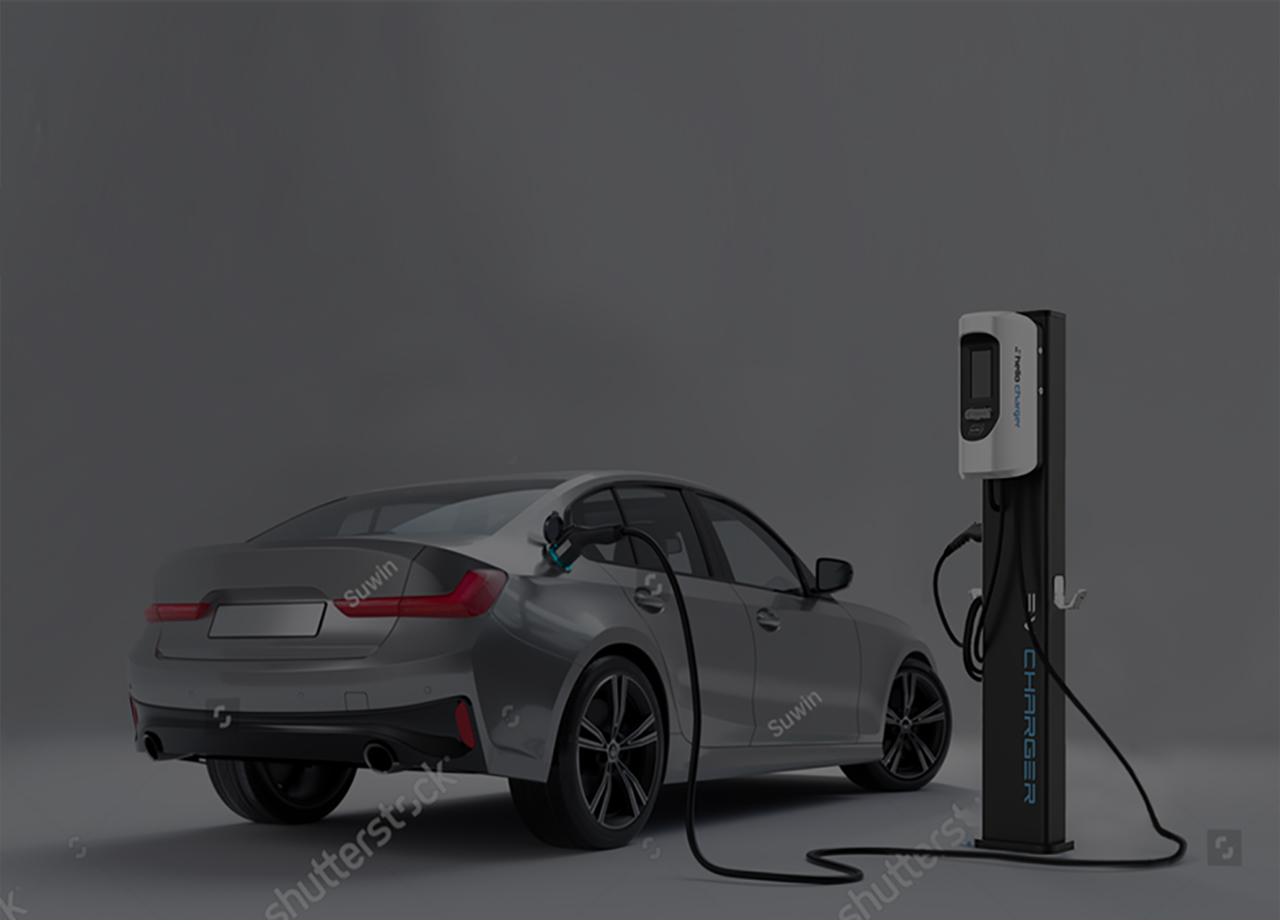
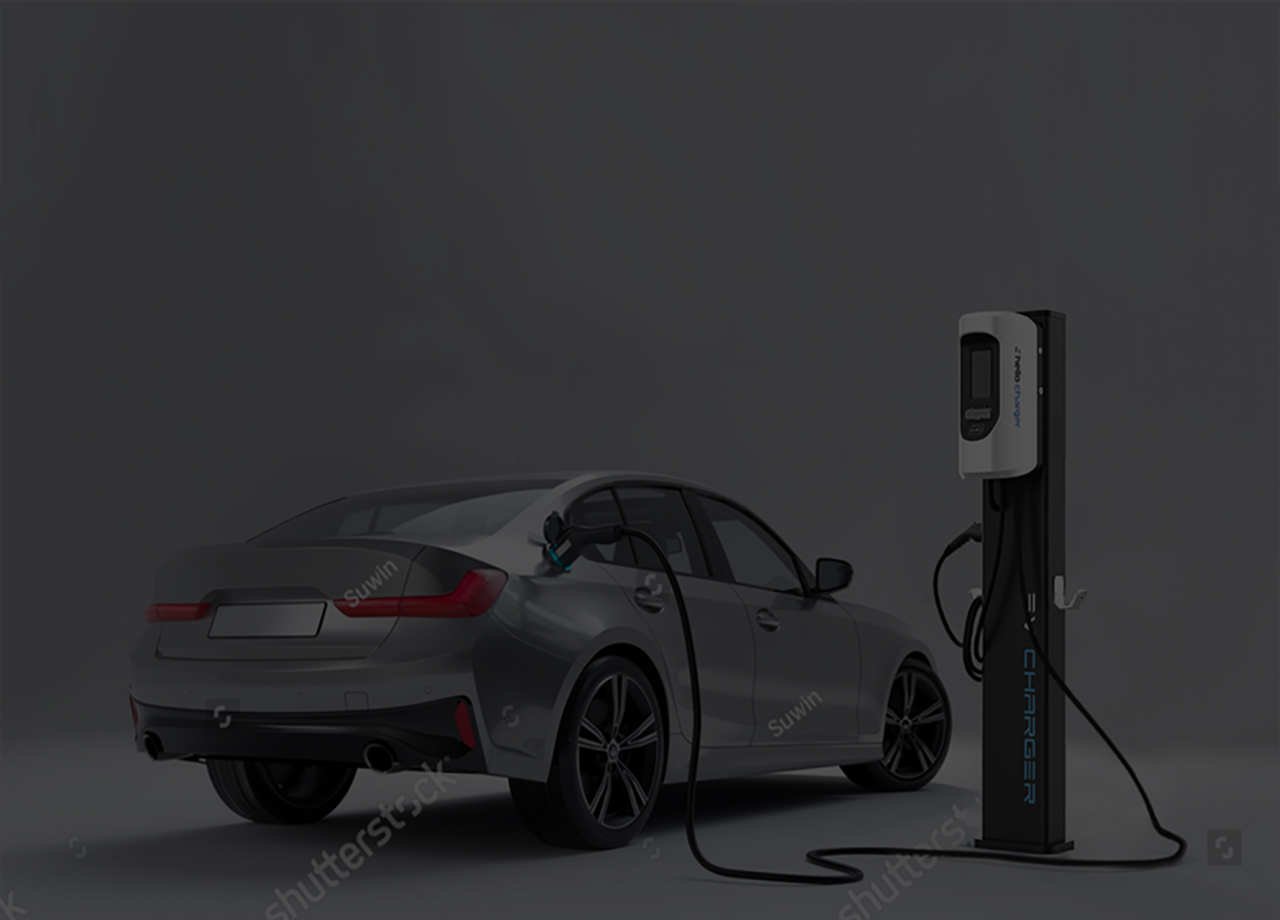
ver.10

diff --git a/css/main.css b/css/main.css
@@ -73,33 +73,11 @@ body.on::after {
 
 /*main-visual*/
 #main-visual {
-    z-index: -2;
     position: relative;
     width: 100%;
     height: 100vh;
     background: url(../images/main/visual/main-visual-bg.jpg) no-repeat 0 0;
     background-size: 100% 100%;
-}
-
-#main-visual::after {
-    z-index: -1;
-    content: '';
-    position: absolute;
-    left: 0;
-    top: 0;
-    width: 100%;
-    height: 100vh;
-    background: rgba(0, 0, 0, .3);
-}
-
-#main-visual .wrap {
-    position: relative;
-}
-
-#main-visual .wrap-inner {
-    z-index: 1;
-    position: absolute;
-    left: 100px;
 }
 
 #main-visual h2 {
